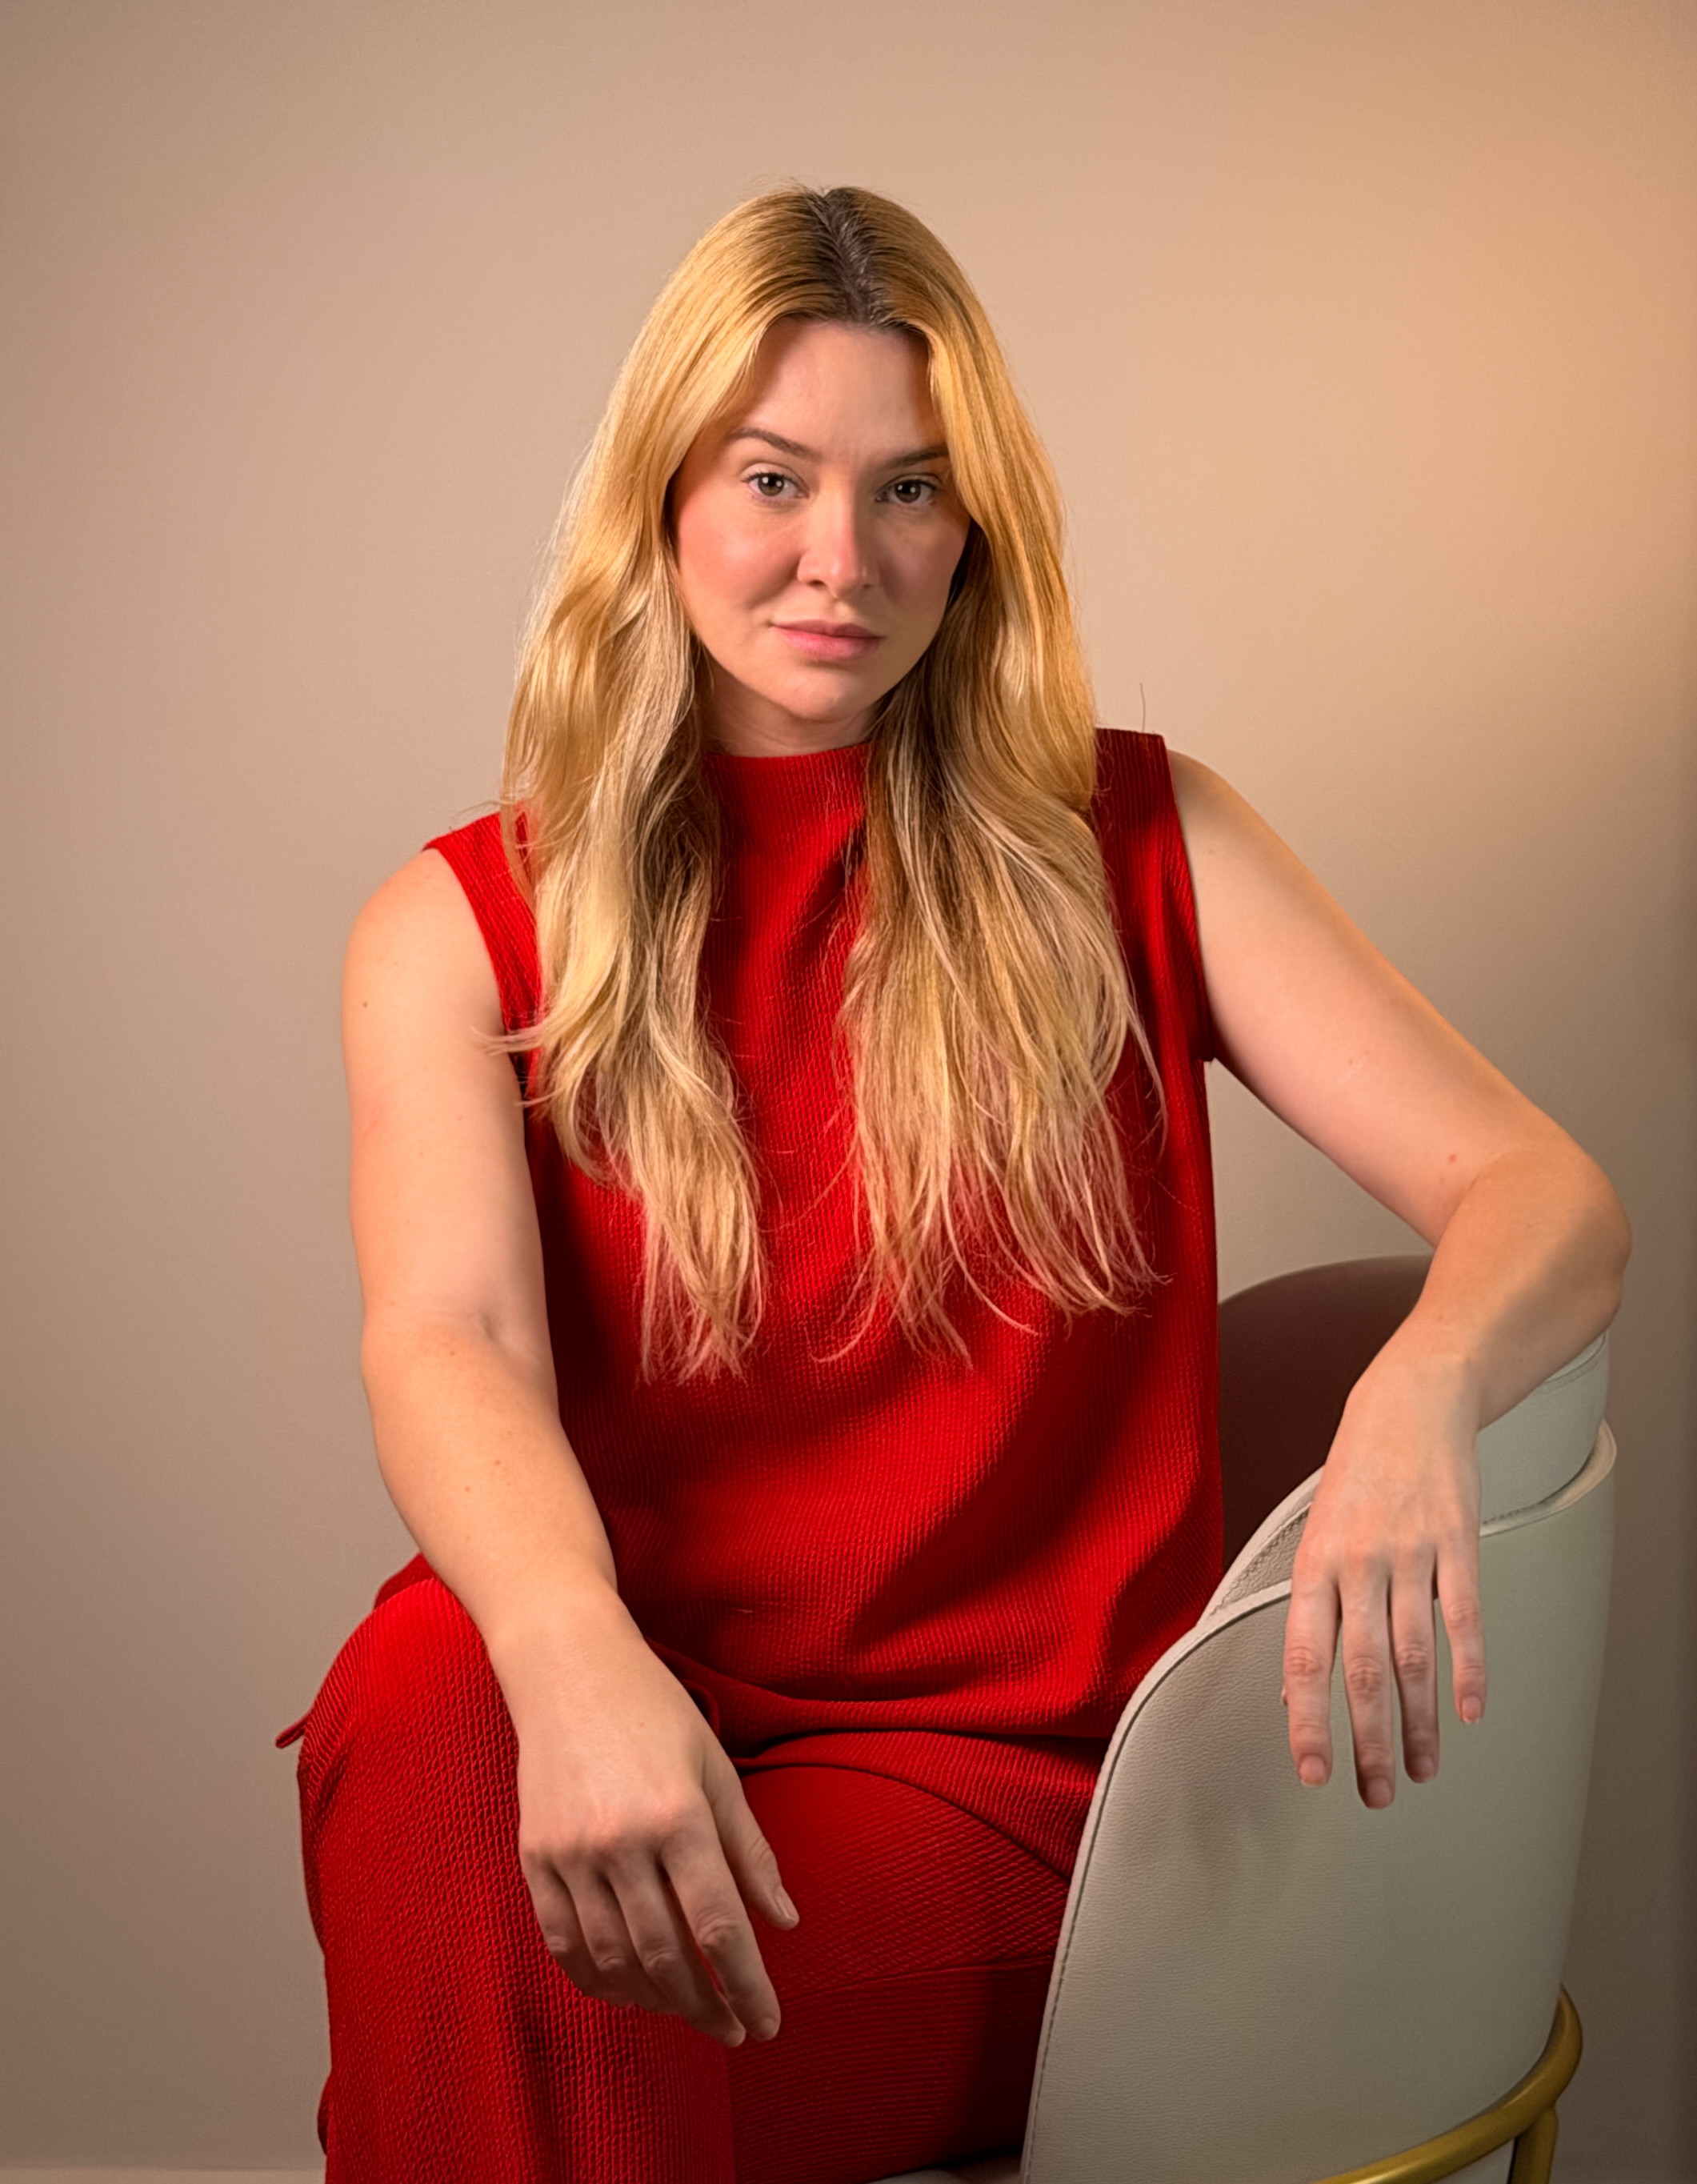
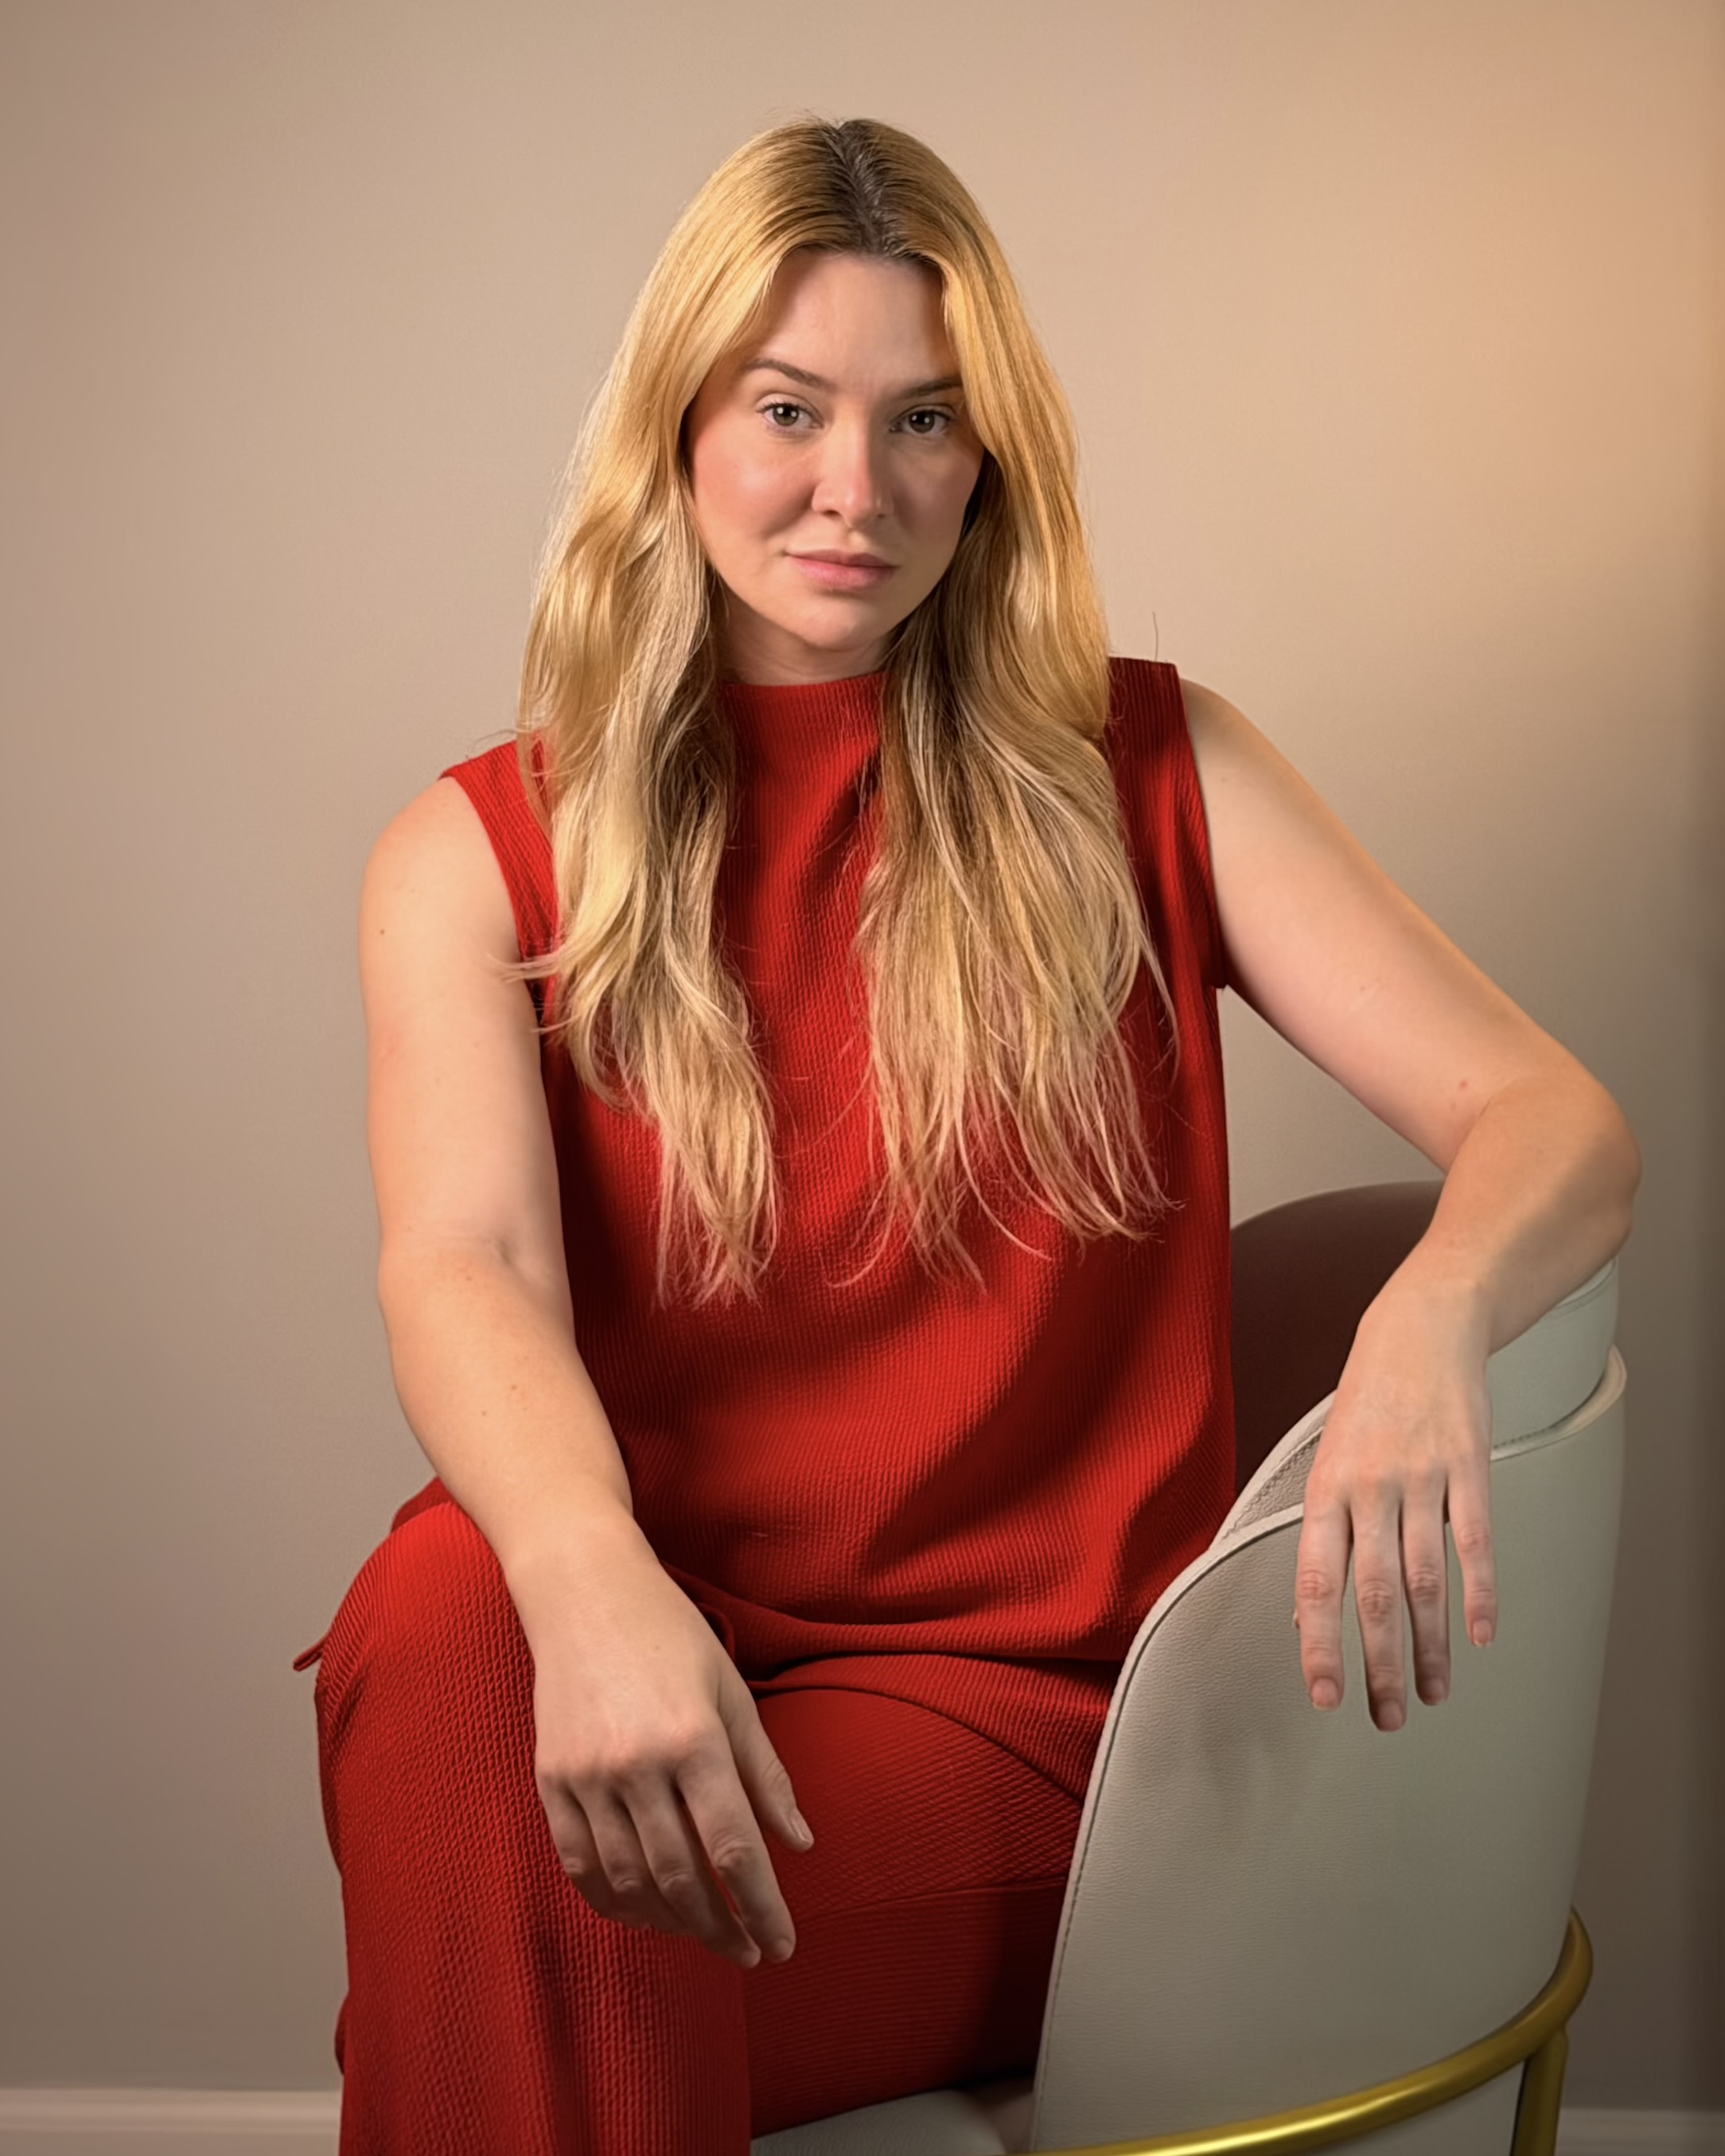
crop hero 4:5

diff --git a/index.html b/index.html
@@ -121,11 +121,10 @@
   .hero {
     display: grid;
     grid-template-columns: 1fr 1fr;
-    min-height: 100vh;
+    height: 100vh;
   }
   .hero__photo {
     position: relative;
-    overflow: hidden;
   }
   .hero__photo img {
     width: 100%;
@@ -157,7 +156,7 @@
     background: var(--warm-bg);
     display: flex;
     align-items: center;
-    padding: 120px 56px 60px 24px;
+    padding: clamp(72px, 9vh, 110px) 56px clamp(20px, 3vh, 48px) 24px;
   }
   .hero__copy-inner { max-width: 480px; }
   .hero__title {
@@ -175,7 +174,7 @@
     font-size: 17px;
     font-weight: 300;
     line-height: 1.75;
-    margin-bottom: 36px;
+    margin-bottom: clamp(14px, 2.5vh, 36px);
     color: var(--mid);
     max-width: 420px;
   }
@@ -188,8 +187,8 @@
   .hero__proof {
     display: flex;
     gap: 32px;
-    margin-top: 40px;
-    padding-top: 32px;
+    margin-top: clamp(14px, 2.5vh, 40px);
+    padding-top: clamp(14px, 2.5vh, 32px);
     border-top: 1px solid var(--cream-dk);
   }
   .hero__proof-item { text-align: left; }